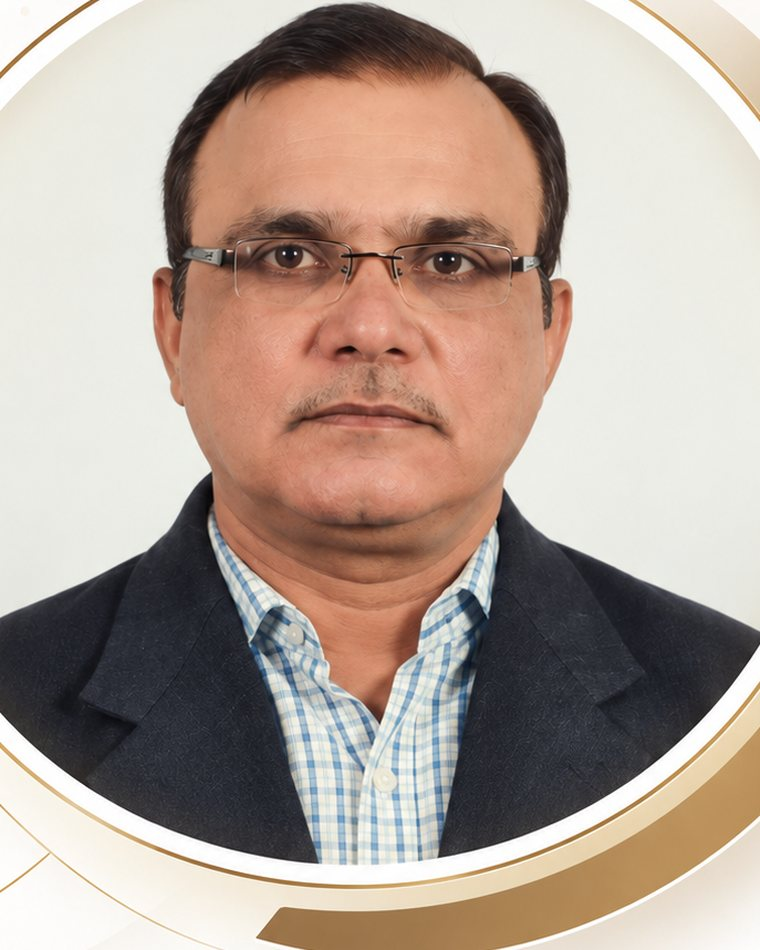
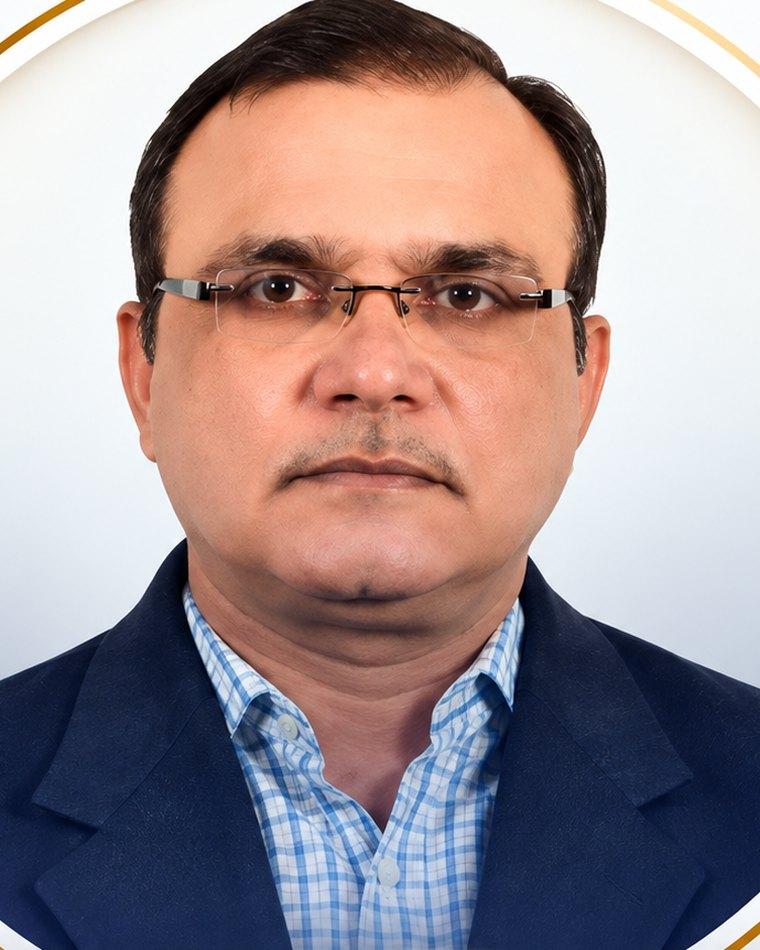
Rework "Why clients engage us" and swap in a cleaner founder portrait
The six points sat as identical cards with the same tick on each, so nothing
distinguished them. The section now runs an intro column - heading, rule, lead
line and the two calls to action - alongside the points, which are numbered
01-06 and each carry their own icon: GST, compliance, audit, Virtual CFO, legal
and team. Each card reveals a gold rule along its top on hover, its icon tile
fills gold, and the index brightens behind the content.

Also replaces CA Sanjay Johary's portrait with the newer, sharper one, cropped
to the same 4:5 at 760x950 as the other two partners so the row stays even.

diff --git a/src/components/WhyUs.tsx b/src/components/WhyUs.tsx
@@ -1,9 +1,11 @@
-import { whyUs } from "@/data/site";
-import { Check } from "./Icons";
+import { site, whyUs } from "@/data/site";
+import { ButtonLink } from "./ui";
+import { ArrowRight, Phone, ServiceIcon } from "./Icons";
 
 /**
- * "Why clients engage us", taken from the firm profile. Set on navy so it
- * carries weight between the lighter sections either side of it.
+ * "Why clients engage us", from the firm profile. An intro column on the left
+ * holds the heading and the call to action while the points run alongside it,
+ * each numbered and carrying its own icon.
  */
 export default function WhyUs() {
   return (
@@ -21,7 +23,7 @@ export default function WhyUs() {
         className="absolute inset-0 -z-20"
         style={{
           background:
-            "radial-gradient(46rem 26rem at 85% 8%, rgba(195,154,69,.18), transparent 62%)",
+            "radial-gradient(48rem 28rem at 82% 6%, rgba(195,154,69,.20), transparent 62%), radial-gradient(34rem 20rem at 0% 100%, rgba(54,86,136,.42), transparent 66%)",
         }}
       />
       <div
@@ -34,36 +36,73 @@ export default function WhyUs() {
       />
 
       <div className="container-x relative">
-        <div className="mx-auto max-w-2xl text-center">
-          <span className="text-xs font-semibold tracking-[0.18em] text-accent-400 uppercase">
-            Why clients engage us
-          </span>
-          <h2 className="mt-4 text-3xl leading-[1.14] font-bold tracking-tight text-balance text-white sm:text-[2.6rem]">
-            Depth where it counts
-          </h2>
-          <span
-            aria-hidden
-            className="mx-auto mt-6 block h-1 w-24 rounded-full bg-gradient-to-r from-brand-300 via-accent-400 to-accent-200"
-          />
-        </div>
+        <div className="grid gap-12 lg:grid-cols-[minmax(0,0.85fr)_1.4fr] lg:gap-16">
+          {/* Intro */}
+          <div className="lg:sticky lg:top-28 lg:self-start">
+            <span className="text-xs font-semibold tracking-[0.18em] text-accent-400 uppercase">
+              Why clients engage us
+            </span>
+            <h2 className="mt-4 text-3xl leading-[1.12] font-bold tracking-tight text-balance text-white sm:text-[2.5rem]">
+              Depth where it counts
+            </h2>
+            <span
+              aria-hidden
+              className="mt-6 block h-1 w-24 rounded-full bg-gradient-to-r from-brand-300 via-accent-400 to-accent-200"
+            />
+            <p className="mt-6 text-base leading-relaxed text-pretty text-white/70">
+              Six reasons mid-market and promoter-led businesses move their tax
+              and compliance function to us, and stay.
+            </p>
 
-        <ul className="mt-14 grid gap-5 sm:grid-cols-2 lg:grid-cols-3">
-          {whyUs.map((item) => (
-            <li key={item.title}>
-              <div className="flex h-full flex-col rounded-2xl border border-white/15 bg-white/8 p-6 backdrop-blur-md transition-all duration-300 hover:-translate-y-1.5 hover:border-white/30 hover:bg-white/12">
-                <span className="grid h-10 w-10 place-items-center rounded-xl bg-accent-500 text-ink">
-                  <Check className="h-5 w-5" />
-                </span>
-                <h3 className="mt-5 text-base leading-snug font-bold text-balance text-white">
-                  {item.title}
-                </h3>
-                <p className="mt-3 text-sm leading-relaxed text-white/70">
-                  {item.body}
-                </p>
-              </div>
-            </li>
-          ))}
-        </ul>
+            <div className="mt-9 flex flex-wrap gap-3">
+              <ButtonLink href="/contact" variant="accent">
+                Book a consultation
+                <ArrowRight className="h-4 w-4" />
+              </ButtonLink>
+              <ButtonLink
+                href={site.phoneHref}
+                className="border border-white/25 bg-white/10 text-white shadow-none hover:bg-white/20"
+              >
+                <Phone className="h-4 w-4" />
+                Call now
+              </ButtonLink>
+            </div>
+          </div>
+
+          {/* The six points */}
+          <ol className="grid gap-5 sm:grid-cols-2">
+            {whyUs.map((item, i) => (
+              <li key={item.title}>
+                <div className="group relative flex h-full flex-col overflow-hidden rounded-2xl border border-white/15 bg-white/8 p-6 backdrop-blur-md transition-all duration-300 hover:-translate-y-1.5 hover:border-accent-400/50 hover:bg-white/12">
+                  {/* Gold rule reveals along the top on hover */}
+                  <span
+                    aria-hidden
+                    className="absolute inset-x-0 top-0 h-0.5 origin-left scale-x-0 bg-gradient-to-r from-accent-400 to-accent-200 transition-transform duration-300 group-hover:scale-x-100"
+                  />
+
+                  {/* The index, held back behind the content */}
+                  <span
+                    aria-hidden
+                    className="absolute top-4 right-5 text-4xl font-bold text-white/8 transition-colors duration-300 group-hover:text-accent-400/25"
+                  >
+                    {String(i + 1).padStart(2, "0")}
+                  </span>
+
+                  <span className="relative grid h-11 w-11 place-items-center rounded-xl bg-accent-500/15 text-accent-400 ring-1 ring-accent-500/30 transition-all duration-300 group-hover:bg-accent-500 group-hover:text-ink group-hover:ring-accent-500">
+                    <ServiceIcon name={item.icon} className="h-5 w-5" />
+                  </span>
+
+                  <h3 className="relative mt-5 text-base leading-snug font-bold text-balance text-white">
+                    {item.title}
+                  </h3>
+                  <p className="relative mt-3 text-sm leading-relaxed text-white/70">
+                    {item.body}
+                  </p>
+                </div>
+              </li>
+            ))}
+          </ol>
+        </div>
       </div>
     </section>
   );

diff --git a/src/data/site.ts b/src/data/site.ts
@@ -422,26 +422,32 @@ export const leadership = [
 /** "Why clients engage us", from the firm profile. */
 export const whyUs = [
   {
+    icon: "gst",
     title: "GST depth, not GST coverage",
     body: "GST is the specialisation rather than one line on a list. The same team that files the return prepares the reconciliation and drafts the reply, so the position taken in the return is the position defended in the notice.",
   },
   {
+    icon: "compliance",
     title: "One provider, whole function",
     body: "Indirect tax, direct tax, transfer pricing, payroll and corporate compliance run off a single set of books and a single calendar, which removes the reconciliation differences that arise when these are split across providers.",
   },
   {
+    icon: "audit",
     title: "Large-firm method",
     body: "Engagement letters, structured working papers, documented sampling and materiality, and Partner review on every deliverable.",
   },
   {
+    icon: "cfo",
     title: "Mid-market economics",
     body: "Delivered without the cost structure, layered staffing or turnaround lag of a large network firm.",
   },
   {
+    icon: "legal",
     title: "Litigation orientation",
     body: "Advisory positions are taken with the notice in mind, so documentation is built at the advisory stage rather than reconstructed at assessment.",
   },
   {
+    icon: "users",
     title: "Continuity",
     body: "Direct Partner access and a stable delivery team, so context is not lost between assignments.",
   },
